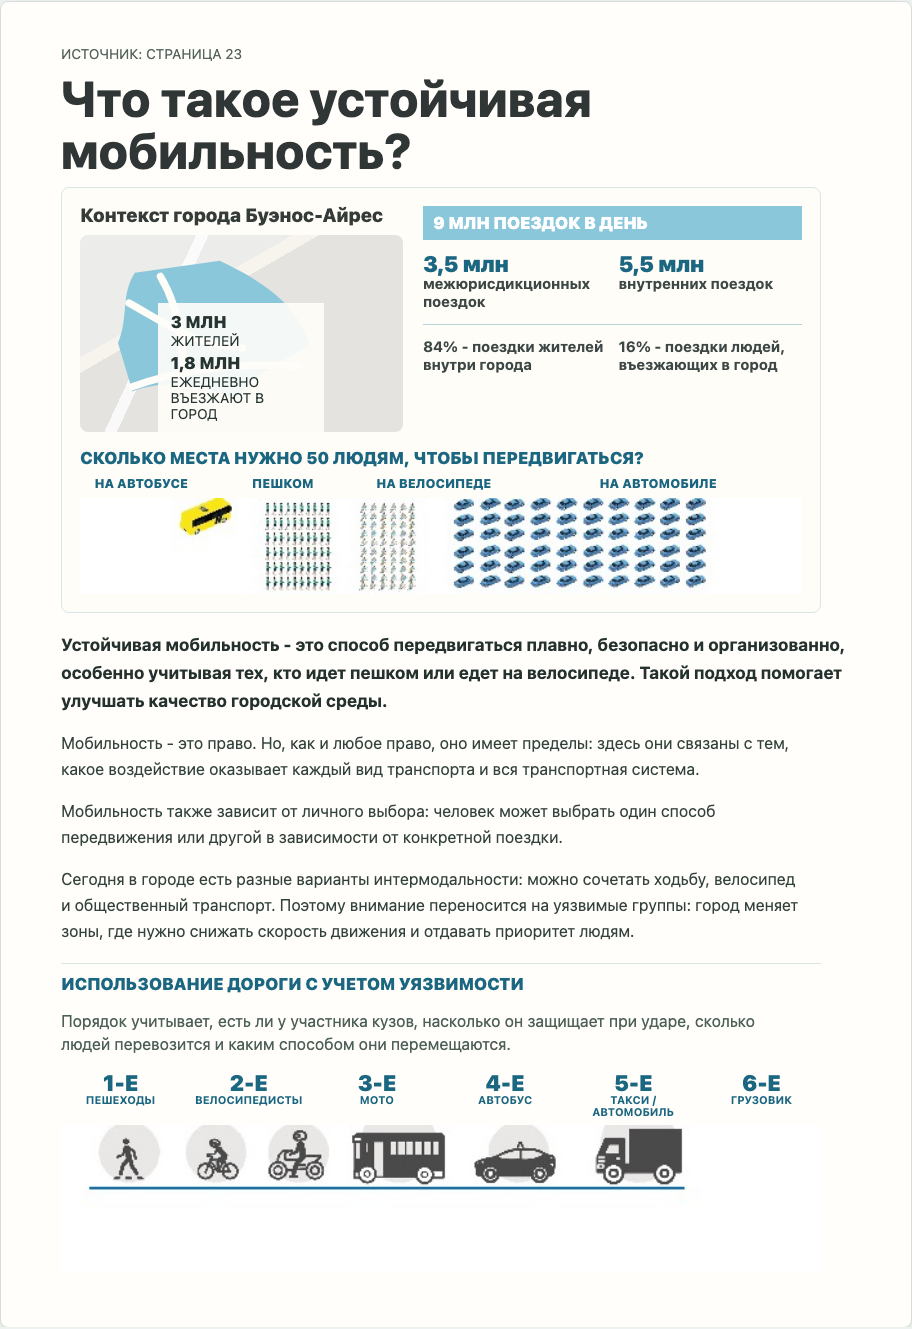
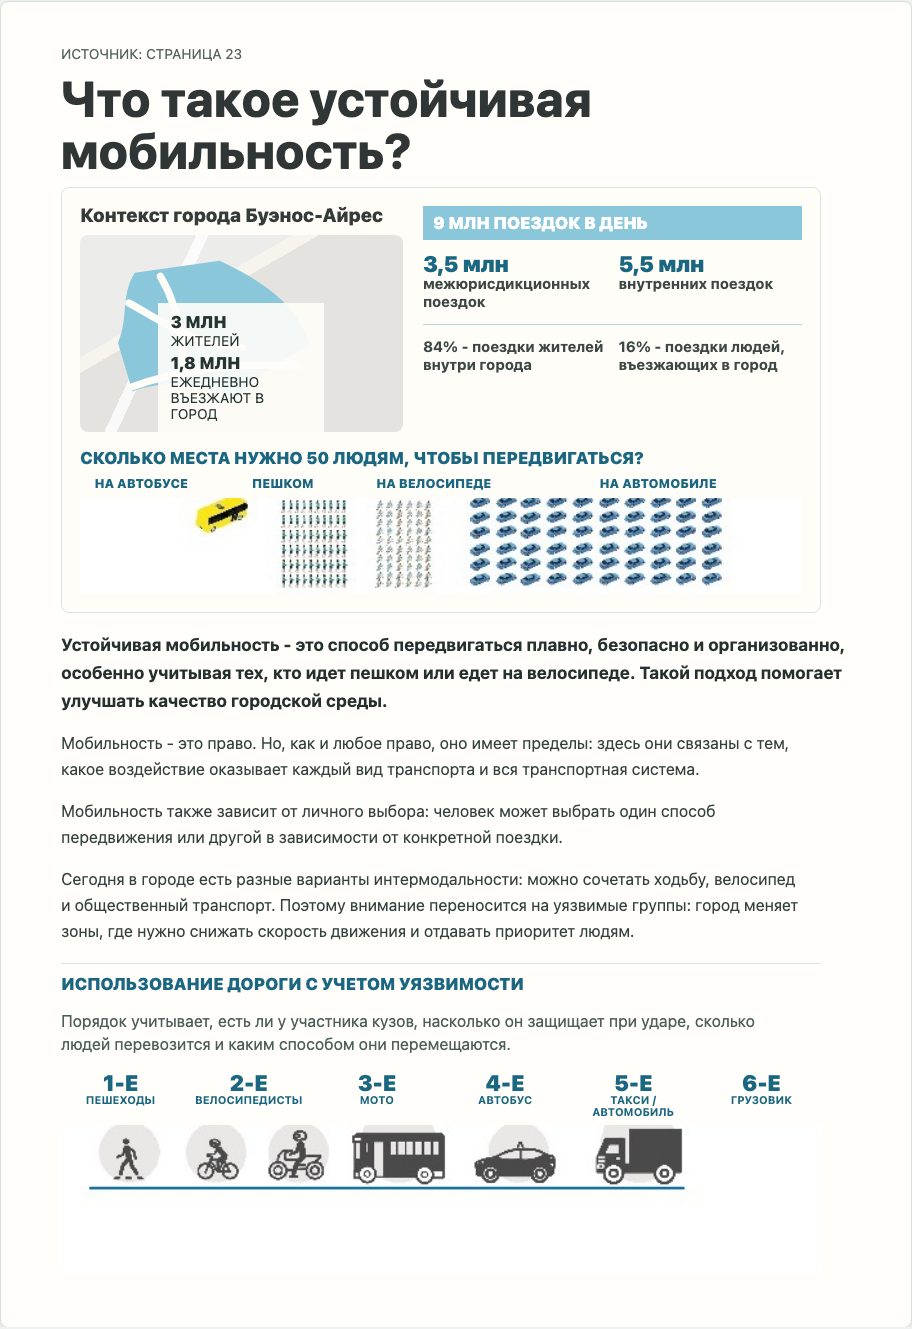
Use correct sustainable mobility space comparison crop

Changed region(s): [[0.1842, 0.3702, 0.7982, 0.4628]]

diff --git a/src/data/manual-sections/ch1-sustainable-mobility.ts b/src/data/manual-sections/ch1-sustainable-mobility.ts
@@ -66,7 +66,7 @@ export const ch1SustainableMobilitySection: ManualGuideSectionContent = {
       space: {
         titleRu: "Сколько места нужно 50 людям, чтобы передвигаться?",
         assetPath:
-          "content/assets/manuals/gcba-manual-vehiculo-4-ruedas-2023/sections/ch1-sustainable-mobility/space-comparison-icons-source.jpg",
+          "content/assets/manuals/gcba-manual-vehiculo-4-ruedas-2023/sections/ch1-sustainable-mobility/space-comparison-50-people-source.jpg",
         modes: [
           {
             id: "bus",

diff --git a/src/styles.css b/src/styles.css
@@ -3180,8 +3180,8 @@ small,
   }
 
   .manual-space-mobile-icon-bicycle {
-    width: 42px;
-    background-position: -109px center;
+    width: 32px;
+    background-position: -126px center;
   }
 
   .manual-space-mobile-icon-car {

diff --git a/specs/030-manual-chapters-1-2/tasks.md b/specs/030-manual-chapters-1-2/tasks.md
@@ -97,12 +97,13 @@ For each section key:
 - [x] Preserved source page `23` facts and numbers: sustainable mobility definition, pedestrian/bicycle emphasis, environmental-quality benefit, mobility as a right with limits tied to transport impacts, individual mode choice, intermodality through walking/bicycle/public transport, vulnerable-group focus, speed reduction and people priority, `3 млн` residents, `1,8 млн` daily city entries, `9 млн` daily trips, `3,5 млн` interjurisdictional trips, `5,5 млн` internal trips, `84%` resident trips inside the city, `16%` entering-city trips, the 50-person modal-space comparison, and vulnerability order from pedestrians through trucks.
 - [x] Rendered runtime infographic content as native Russian DOM labels plus local source-derived non-text pictogram crops; Spanish source crops remain validation evidence only and are not mounted in the learner UI.
 - [x] Generated validation source crops at `content/validation/manual-guide/ch1-sustainable-mobility/page-023-sustainable-mobility-source-crop.jpg`, `page-023-context-infographic-source-crop.jpg`, and `page-023-vulnerability-source-crop.jpg`.
-- [x] Generated runtime non-text source pictogram crops at `content/assets/manuals/gcba-manual-vehiculo-4-ruedas-2023/sections/ch1-sustainable-mobility/space-comparison-icons-source.jpg` and `vulnerability-icons-source.jpg`; both crops exclude Spanish labels.
+- [x] Generated runtime non-text source pictogram crops at `content/assets/manuals/gcba-manual-vehiculo-4-ruedas-2023/sections/ch1-sustainable-mobility/space-comparison-50-people-source.jpg` and `vulnerability-icons-source.jpg`; both crops exclude Spanish labels.
 - [x] Generated rendered desktop/mobile evidence screenshots at `content/validation/manual-guide/ch1-sustainable-mobility/ch1-sustainable-mobility-desktop.png` and `ch1-sustainable-mobility-mobile.png`; the mobile screenshot led to a fix so Russian headings remain normal responsive text while only fixed pictogram rows scroll horizontally.
 - [x] Added focused content/e2e tests for route activation, implemented-vs-pending state, source coverage, source-page `23` infographic facts, no page-021/page-043/page-056 routes, no unrelated section implementation, selectable infographic text, responsive/no-overflow checks, and no visible Spanish in rendered section text.
 - [x] Finalized implementation commit/push and opened ready PR metadata for this slice; implementation content head before this PR-metadata evidence update is `c068245dd3ed4138735b2b12dc50d27f688bce8c`.
 - [x] Addressed PR #178 P2 review thread `PRRT_kwDOSX65IM6F39RF` / `discussion_r3328826568` by replacing the detached mobile two-column label lists with paired source-derived label/pictogram items for the 50-person space comparison and vulnerability ranking. The desktop strip layout remains unchanged, while mobile keeps each label physically associated with its matching source pictogram without clipping, horizontal scrolling, or letter-level word splitting.
 - [x] Addressed PR #178 current-head AI Review P2 comment `3328864017` by keeping the desktop space-comparison mode-label row in the accessibility tree; the visual desktop strip and mobile paired label/pictogram treatment remain unchanged.
+- [x] Addressed PR #178 current-head AI Review P2 comment `3328876636` by regenerating the runtime 50-person modal-space comparison crop as `space-comparison-50-people-source.jpg`, pointing the `space` block and registry to that explicit asset, removing the ambiguous old `space-comparison-icons-source.jpg` path, and adding a content-test hash guard so the space-comparison crop cannot be swapped with the vulnerability strip.
 
 ## Review Requirements
 
@@ -245,10 +246,10 @@ For each section key:
[10 lines of base64/hex data omitted]
 - In-app browser verification for `ch1-sustainable-mobility`: direct route `http://127.0.0.1:5188/#manual-section-ch1-sustainable-mobility` rendered `data-manual-section-id="ch1-sustainable-mobility"`, no visible Spanish section text, no document-level horizontal overflow, desktop content height `1327.375`, mobile content height `1886.734`, and mobile `clippedHeading` check `false`.
 - Focused local verification passed for `ch1-sustainable-mobility`: `node scripts/manual-guide-source-fidelity.mjs` returned `status: pass`, `implementedSections: 2`, `pendingSections: 8`, skipped source pages `[21, 43, 56]`, shared source pages `[55]`, and source-crop/screenshot evidence recorded for both implemented sections.
 - Focused local verification passed for `ch1-sustainable-mobility`: `node --test tests/content-manual-guide-chapters.test.mjs` passed `18/18`; `pnpm exec tsc --noEmit` passed; `pnpm run build` passed including content validation, manual-guide checker, Vite build, and service-worker generation; `pnpm exec playwright test tests/e2e/app.spec.ts -g "Manual guide exposes Chapter 1 section pages"` passed `2/2` across desktop Chromium and mobile projects; `git diff --check` passed.
@@ -263,9 +264,11 @@ For each section key:
 - Follow-up full local preflight passed for `ch1-sustainable-mobility`: `pnpm run preflight` completed `check-feature-memory`, `check:repo`, `validate:content`, `pnpm run test` with `327/327` passing node tests, `pnpm run build`, and full Playwright e2e with `74/74` passing tests across desktop/mobile projects.
 - Visual-polish verification for `ch1-sustainable-mobility`: regenerated mobile screenshot metrics showed no document overflow (`390/390`), no row overflow (`city-context-infographic` `299/299`, `vulnerability-order` `329/329`), top comparison labels `НА АВТОБУСЕ`, `ПЕШКОМ`, `НА ВЕЛОСИПЕДЕ`, `НА АВТОМОБИЛЕ`, and vulnerability labels `1-е ПЕШЕХОДЫ` through `6-е ГРУЗОВИК`; single-word vulnerability label wrap check returned an empty list.
 - Visual-polish focused verification passed for `ch1-sustainable-mobility`: `node scripts/manual-guide-source-fidelity.mjs` returned `status: pass`; `node --test tests/content-manual-guide-chapters.test.mjs` passed `18/18`; `git diff --check` passed; `node scripts/check-feature-memory.mjs --worktree` passed; `pnpm run build` passed including content validation, manual-guide checker, Vite build, and service-worker generation; `pnpm exec playwright test tests/e2e/app.spec.ts -g "Manual guide exposes Chapter 1 section pages"` passed `2/2` across desktop Chromium and Pixel 7 mobile.
[2 lines of base64/hex data omitted]
 - PR #178 P2 label/pictogram mapping verification passed for `ch1-sustainable-mobility`: `node scripts/manual-guide-source-fidelity.mjs` returned `status: pass`; `node --test tests/content-manual-guide-chapters.test.mjs` passed `18/18`; `pnpm exec tsc --noEmit` passed; `git diff --check` passed; `node scripts/check-feature-memory.mjs --worktree` passed; `pnpm run build` passed; `pnpm exec playwright test tests/e2e/app.spec.ts -g "Manual guide exposes Chapter 1 section pages"` passed `2/2`; `pnpm run preflight` passed including `327/327` Node tests and `74/74` Playwright tests.
 - PR #178 current-head AI Review P2 accessibility verification passed for `ch1-sustainable-mobility`: desktop space-comparison labels are no longer `aria-hidden`, the focused e2e guard now fails if they are hidden from assistive technology, and mobile paired labels remain unchanged. Verification passed: `node scripts/manual-guide-source-fidelity.mjs`; `node --test tests/content-manual-guide-chapters.test.mjs` (`18/18`); `pnpm exec tsc --noEmit`; `git diff --check`; `node scripts/check-feature-memory.mjs --worktree`; `pnpm run build`; `pnpm exec playwright test tests/e2e/app.spec.ts -g "Manual guide exposes Chapter 1 section pages"` (`2/2`).
[1 lines of base64/hex data omitted]
+- PR #178 current-head AI Review P2 source-fidelity verification passed for `ch1-sustainable-mobility`: `node scripts/manual-guide-source-fidelity.mjs` returned `status: pass`; `node --test tests/content-manual-guide-chapters.test.mjs` passed `18/18` and now checks the 50-person crop path/hash against the vulnerability strip path/hash; `pnpm exec tsc --noEmit` passed; `git diff --check` passed; `node scripts/check-feature-memory.mjs --worktree` passed; `pnpm run build` passed; `pnpm exec playwright test tests/e2e/app.spec.ts -g "Manual guide exposes Chapter 1 section pages"` passed `2/2`; `pnpm run preflight` passed including `327/327` Node tests and `74/74` Playwright tests.
 
 ### Cycle PR Set
 
@@ -275,7 +278,7 @@ For each section key:
 | shared-section-prereq | Shared correction/prerequisite for section registry/routes/checker/style, no section content | `codex/030-section-requirement-correction` | PR #176, `https://github.com/cucumberfalse/cabadrive/pull/176` | post-P1 implementation head to be reported by Implementation Agent after commit/push | Scoring source-boundary registry/test fix implemented locally; review-thread/final-validation state pending Orchestrator routing | yes |
 | PR-175-page-021-disposition | Existing PR #175 / `page-021` divider-only implementation | `codex/030-page-021` | PR #175, `https://github.com/cucumberfalse/cabadrive/pull/175` | `1e8334676ba26d867194dcc9b884758465837959` | closed unmerged, superseded by corrected section-based contract | no |
 | `ch1-cities-for-people` | Implement website section page `Ciudades para las personas` / `Города для людей` with source page `22` evidence and selectable `ПЛАВНОСТЬ / БЕЗОПАСНОСТЬ` visual | `codex/030-ch1-cities-for-people` | PR #177, `https://github.com/cucumberfalse/cabadrive/pull/177` | prior effective content head `499aa8547f7d13b3b9819cbd0d2e8650fa99da06` is stale after source-order P2; final crop-order fix head reported after push | crop-order fix implemented locally; focused checker/content/build/Playwright, diff hygiene, and feature-memory check passed; final validation must rerun | yes |
-| `ch1-sustainable-mobility` | Implement website section page `¿Qué es la movilidad sustentable?` / `Что такое устойчивая мобильность?` with source page `23` infographic and vulnerability-order evidence | `codex/030-ch1-sustainable-mobility` | PR #178, `https://github.com/cucumberfalse/cabadrive/pull/178` | implementation content head `c068245dd3ed4138735b2b12dc50d27f688bce8c`; prior PR-metadata evidence head `73df18169ad941501a3ce7b5f8c77af14ff9fc43`; responsive-fix head `47be8d1a9f81cf05746e4d738bdd519dd81c4fa5`; visual-polish head `040aa70d4ee08a70f599b570b91832587b02baf7`; label/pictogram mapping fix head `470333e95494438f86e128fe61858339d077367f`; final-validation evidence head `b1a8cf067c1d452db58d8b50204a23dc57652b9d`; current-head accessibility P2 fix head reported after push | implemented and opened ready; mobile infographic clipping, label word-split, label/pictogram mapping, and desktop assistive-tech label follow-ups implemented locally; current source-fidelity/content/tsc/build/focused Playwright/diff/feature-memory passed; Docker smoke passed before later P2 fixes | yes |
+| `ch1-sustainable-mobility` | Implement website section page `¿Qué es la movilidad sustentable?` / `Что такое устойчивая мобильность?` with source page `23` infographic and vulnerability-order evidence | `codex/030-ch1-sustainable-mobility` | PR #178, `https://github.com/cucumberfalse/cabadrive/pull/178` | implementation content head `c068245dd3ed4138735b2b12dc50d27f688bce8c`; prior PR-metadata evidence head `73df18169ad941501a3ce7b5f8c77af14ff9fc43`; responsive-fix head `47be8d1a9f81cf05746e4d738bdd519dd81c4fa5`; visual-polish head `040aa70d4ee08a70f599b570b91832587b02baf7`; label/pictogram mapping fix head `470333e95494438f86e128fe61858339d077367f`; final-validation evidence head `b1a8cf067c1d452db58d8b50204a23dc57652b9d`; accessibility P2 fix head `403e779cae2b526e6fd90a06bf12a752f709416e`; current-head 50-person asset P2 fix head reported after push | implemented and opened ready; mobile infographic clipping, label word-split, label/pictogram mapping, desktop assistive-tech label, and explicit 50-person space-crop follow-ups implemented locally; current source-fidelity/content/tsc/build/focused Playwright/diff/feature-memory and full preflight passed; Docker smoke passed before later P2 fixes | yes |
 | `ch1-pedestrian-priority` | Implement website section page `Prioridad peatonal` | pending Orchestrator assignment | pending | pending | pending | yes |
 | `ch1-bicycle` | Implement website section page `Bicicleta` | pending Orchestrator assignment | pending | pending | pending | yes |
 | `ch1-public-transport-system` | Implement website section page `Sistema de transporte público` | pending Orchestrator assignment | pending | pending | pending | yes |
@@ -325,6 +328,7 @@ For each section key:
 - Analyst feedback Architect disposition: none.
 - Limit escalation: none.
 - Stale validation notice: final Architect and Analyst validation for PR #178 effective content head `470333e95494438f86e128fe61858339d077367f` is stale after current-head AI Review P2 comment `3328864017` required a runtime accessibility fix; final validation must rerun on the post-fix effective content head before completion, finalization, or merge.
+- Stale validation notice: final Architect and Analyst validation for PR #178 remains stale after current-head AI Review P2 comment `3328876636` required a source-fidelity asset fix for the 50-person space comparison; final validation must rerun on the post-fix effective content head before completion, finalization, or merge.
 
 ### Cleanup Evidence
 
@@ -342,6 +346,7 @@ For each section key:
 - No unresolved Implementation Agent feedback for the local `ch1-sustainable-mobility` implementation at the time of focused local verification.
 - Architect disposition: addressed; PR #178 Review Agent P2 thread `PRRT_kwDOSX65IM6F39RF` / `discussion_r3328826568` was fixed by pairing each mobile label with its source-derived pictogram, Review Agent reported no actionable findings on current head, and no additional Architect task remains.
 - PR #178 current-head AI Review P2 comment `3328864017` is expected to be safe for Orchestrator/Review routing to resolve after this assistive-tech fix is pushed and current-head checks complete.
+- PR #178 current-head AI Review P2 comment `3328876636` is expected to be safe for Orchestrator/Review routing to resolve after this 50-person crop fix is pushed and current-head checks complete.
 
 ## Architect Dispositions
 
